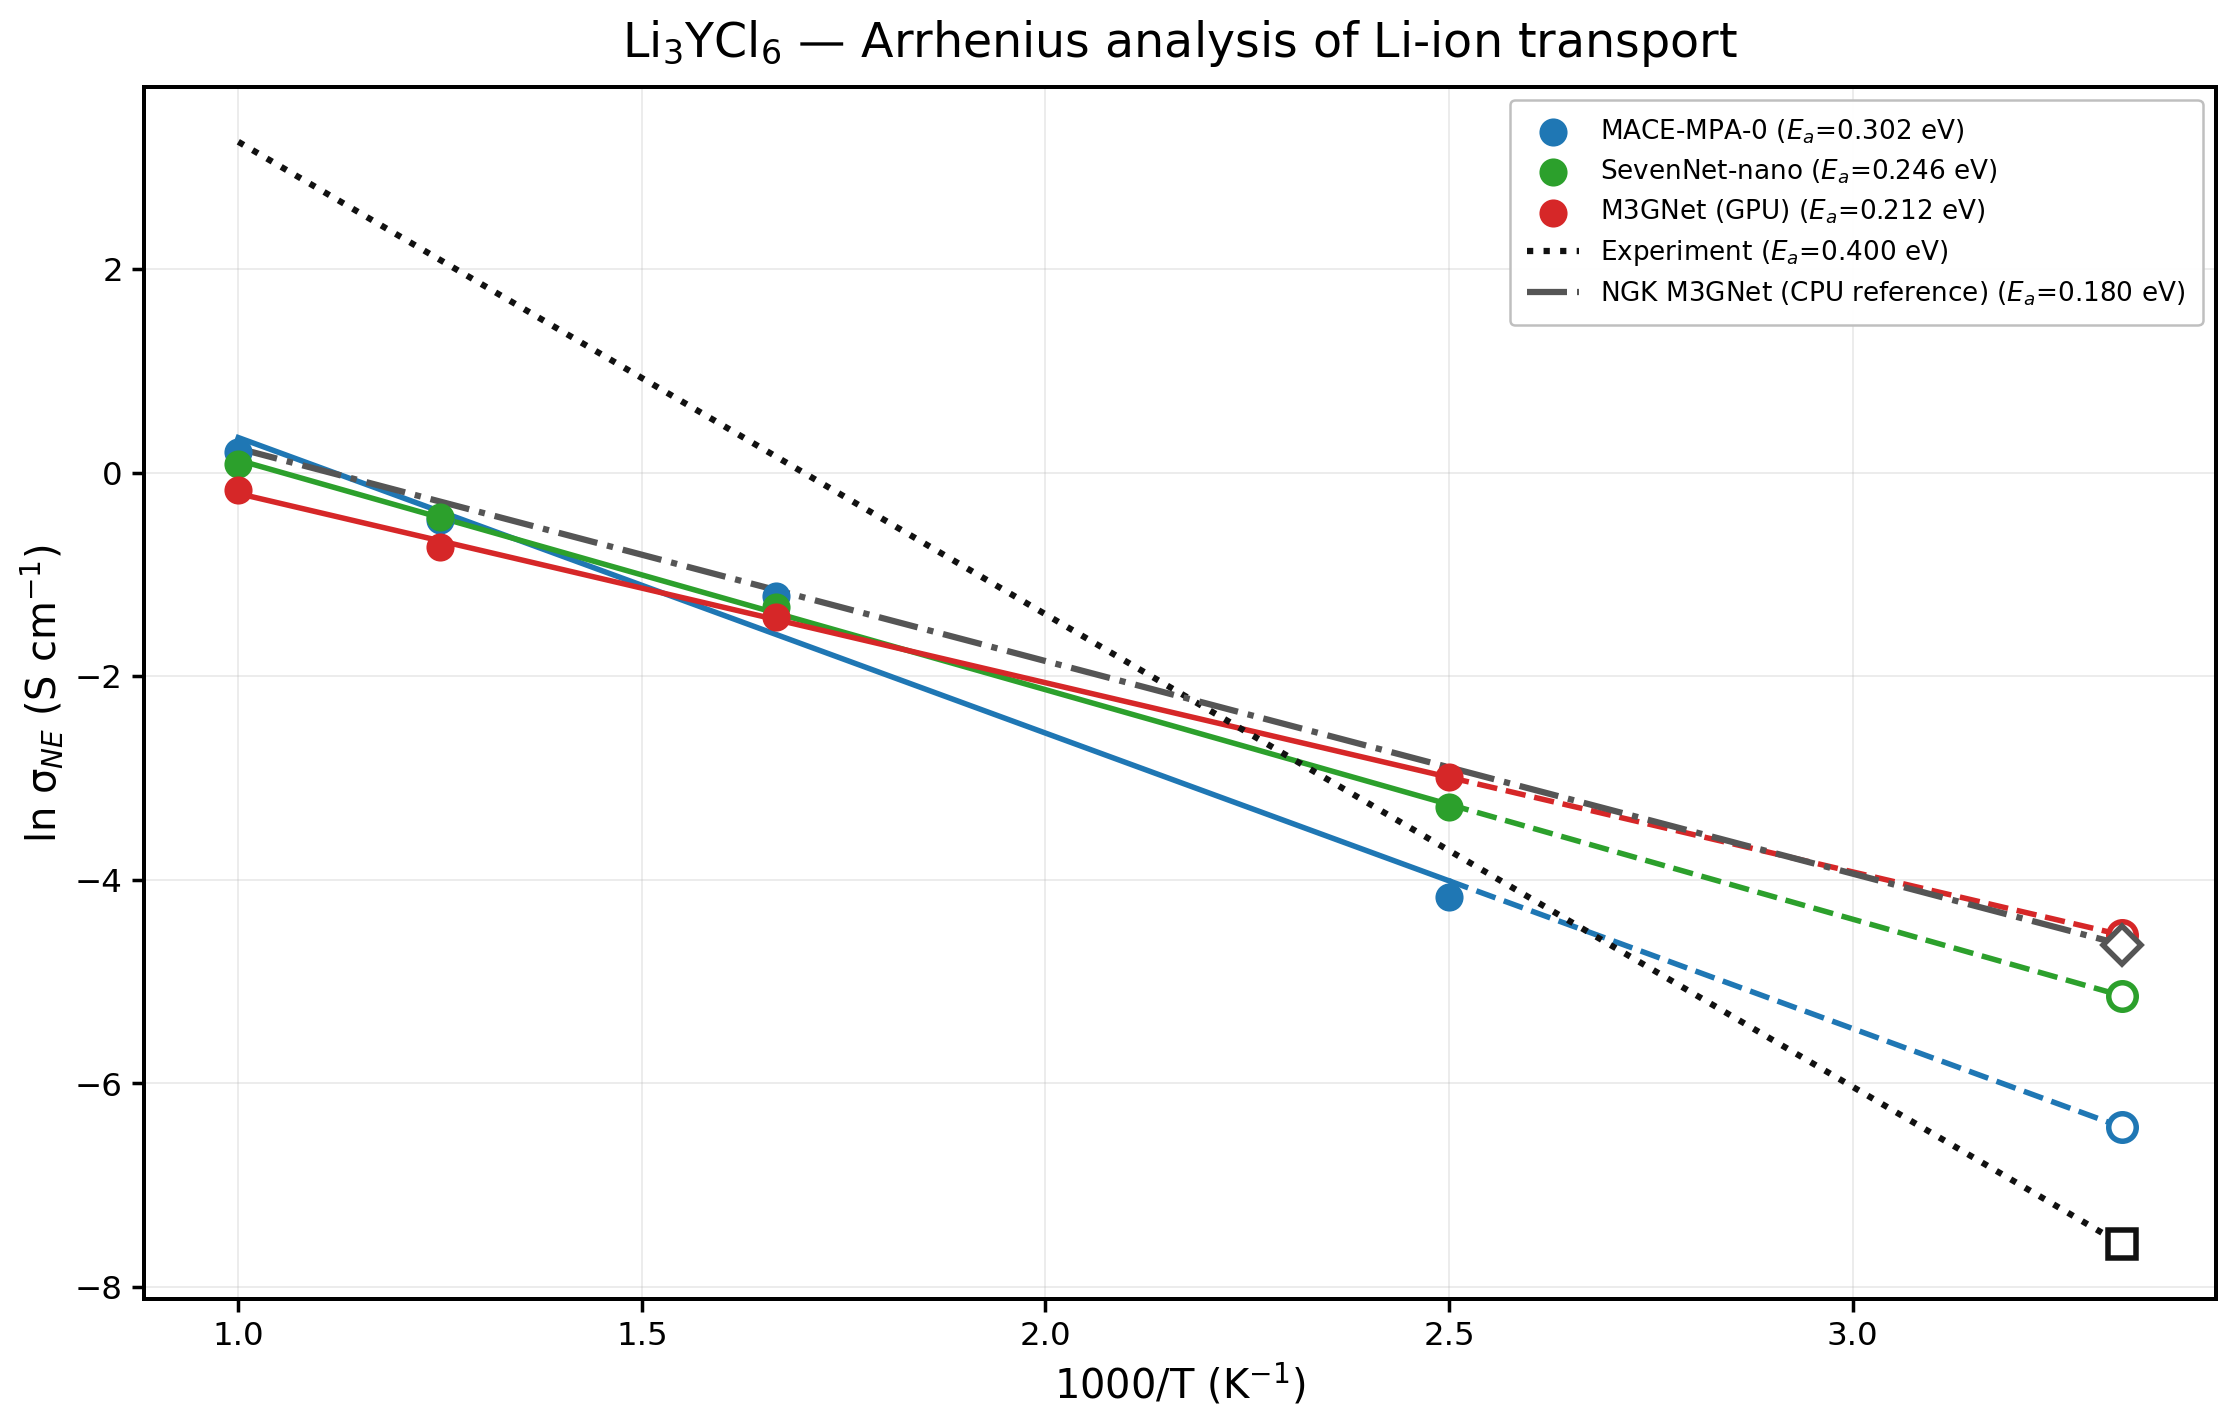
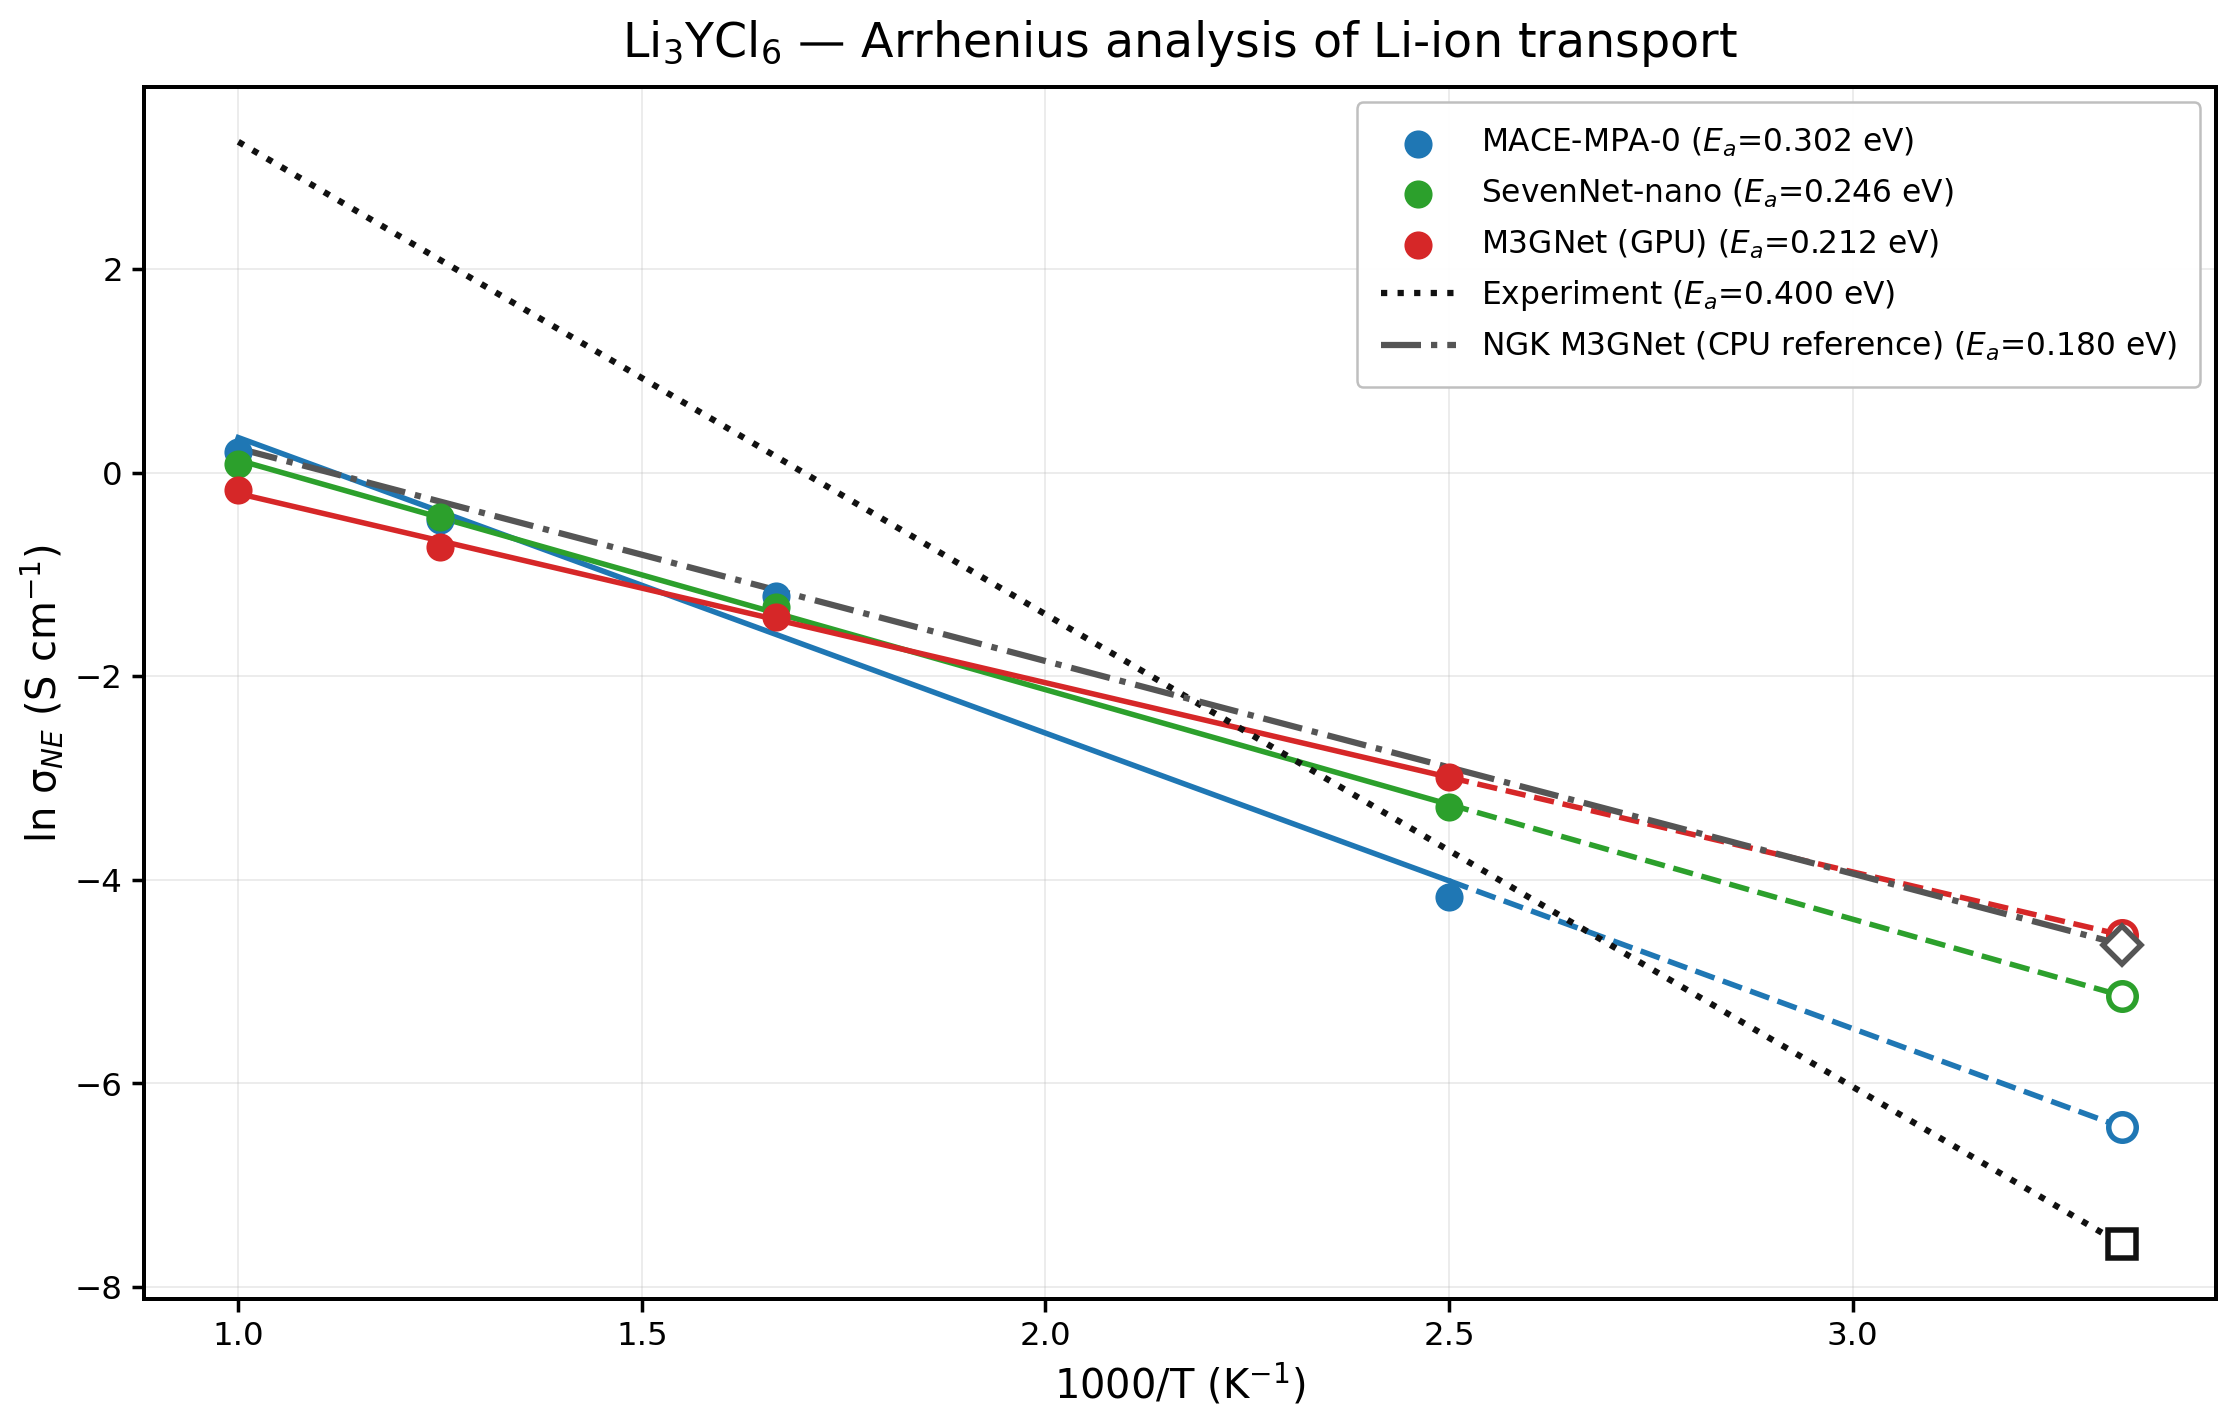
Enlarge Arrhenius legend for midterm figure

Changed region(s): [[0.618, 0.0618, 0.9888, 0.2779], [0.9579, 0.0618, 0.9888, 0.0926]]

diff --git a/src/li_research/analysis/arrhenius/plot_li3ycl6_arrhenius_midterm.py b/src/li_research/analysis/arrhenius/plot_li3ycl6_arrhenius_midterm.py
@@ -48,9 +48,9 @@ ax.tick_params(labelsize=13, width=1.4, length=5)
 for spine in ax.spines.values():
     spine.set_linewidth(1.6)
 ax.grid(True, alpha=0.23)
-ax.legend(fontsize=10.5, loc="upper right",
+ax.legend(fontsize=12.5, loc="upper right",
           frameon=True, edgecolor="#bdbdbd", facecolor="white", framealpha=0.96,
-          borderpad=0.65, labelspacing=0.45)
+          borderpad=0.75, labelspacing=0.55, handlelength=2.4)
 fig.tight_layout()
 for out in OUTS:
     fig.savefig(out, bbox_inches="tight")
